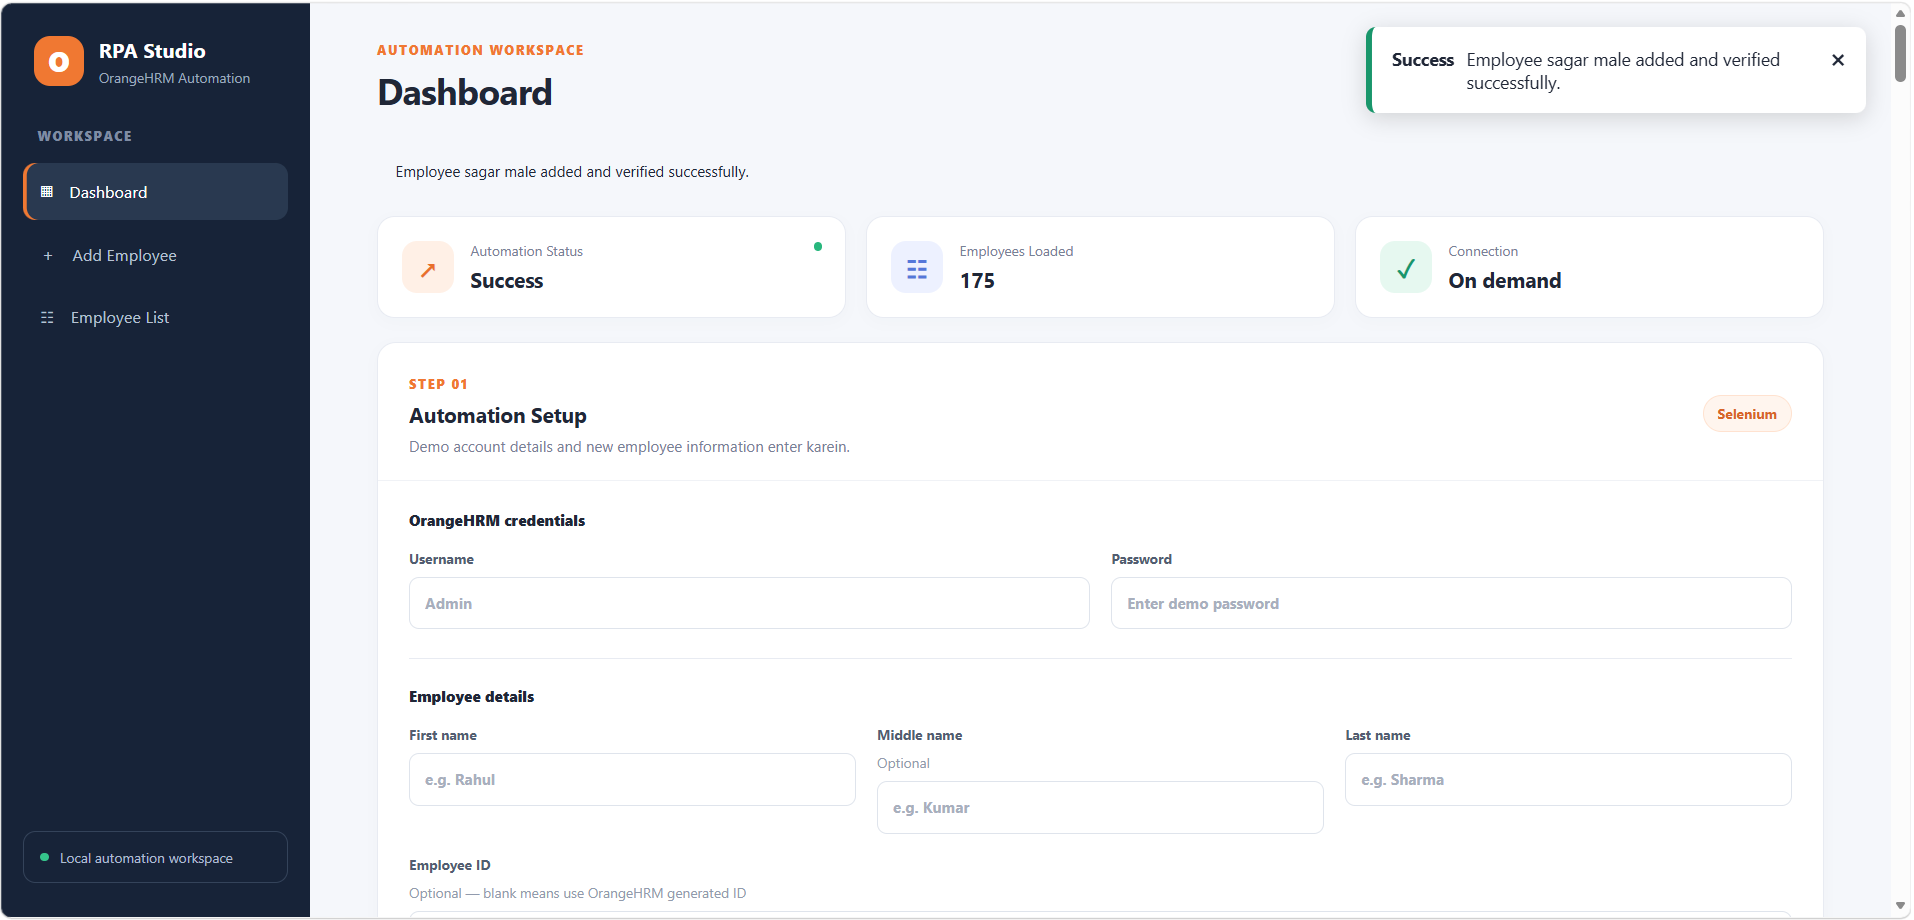
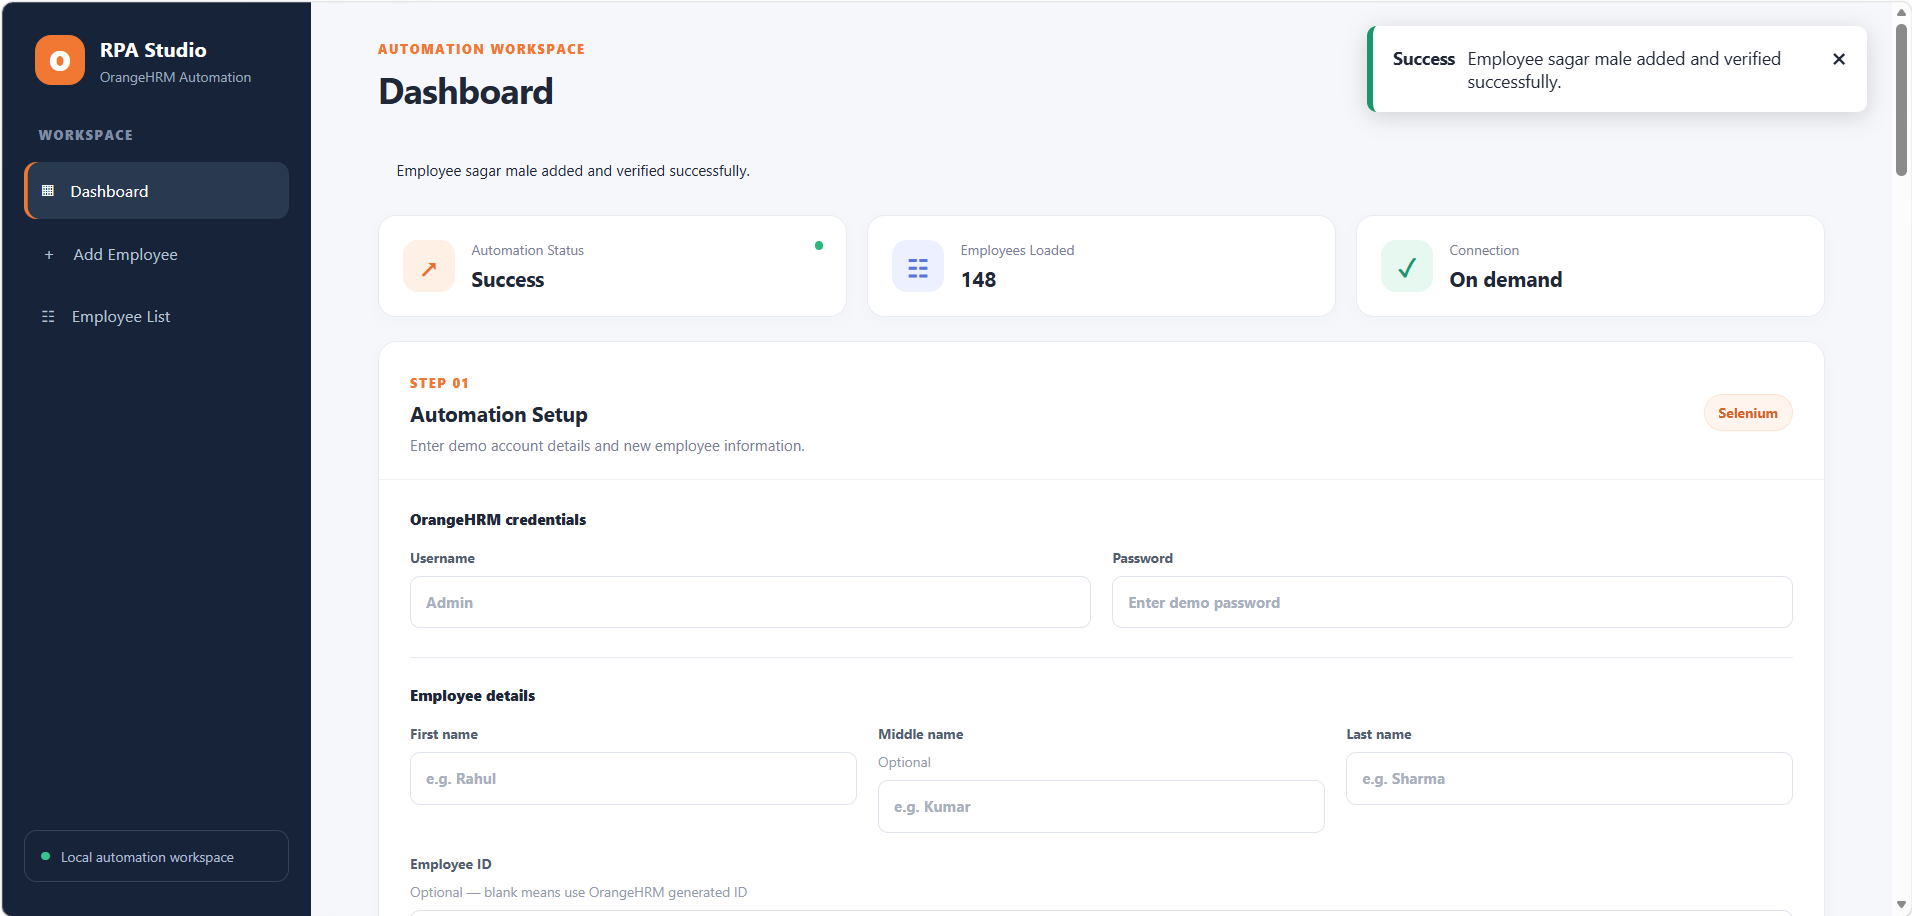
Update automation, screenshots, exports and gitignore

diff --git a/automation.py b/automation.py
@@ -13,6 +13,9 @@ load_dotenv()
 ORANGEHRM_BASE_URL = os.environ.get("ORANGEHRM_BASE_URL", "https://opensource-demo.orangehrmlive.com/")
 WAIT_SECONDS = 20
 
+class LoginFailedError(Exception):
+    pass
+
 os.makedirs("logs", exist_ok=True)
 logging.basicConfig(
     filename=os.path.join("logs", "automation.log"),
@@ -31,16 +34,64 @@ def wait_click(wait, by, selector):
     element.click()
     return element
 
+# def login(driver, wait, username, password):
+#     driver.get(ORANGEHRM_BASE_URL)
+#     user = wait.until(EC.visibility_of_element_located((By.NAME, "username")))
+#     user.clear()
+#     user.send_keys(username)
+#     pwd = wait.until(EC.visibility_of_element_located((By.NAME, "password")))
+#     pwd.clear()
+#     pwd.send_keys(password)
+#     wait_click(wait, By.CSS_SELECTOR, "button[type='submit']")
+#     wait.until(EC.presence_of_element_located((By.CSS_SELECTOR, "nav[aria-label='Sidepanel']")))
+#     logging.info("Login successful")
+
 def login(driver, wait, username, password):
     driver.get(ORANGEHRM_BASE_URL)
-    user = wait.until(EC.visibility_of_element_located((By.NAME, "username")))
+
+    user = wait.until(
+        EC.visibility_of_element_located((By.NAME, "username"))
+    )
     user.clear()
     user.send_keys(username)
-    pwd = wait.until(EC.visibility_of_element_located((By.NAME, "password")))
+
+    pwd = wait.until(
+        EC.visibility_of_element_located((By.NAME, "password"))
+    )
     pwd.clear()
     pwd.send_keys(password)
+
     wait_click(wait, By.CSS_SELECTOR, "button[type='submit']")
-    wait.until(EC.presence_of_element_located((By.CSS_SELECTOR, "nav[aria-label='Sidepanel']")))
+
+    def check_login_result(d):
+        alerts = d.find_elements(
+            By.CSS_SELECTOR, ".oxd-alert-content-text"
+        )
+
+        for alert in alerts:
+            try:
+                if alert.is_displayed() and alert.text.strip():
+                    return ("error", alert.text.strip())
+            except StaleElementReferenceException:
+                continue
+
+        dashboard = d.find_elements(
+            By.CSS_SELECTOR, "nav[aria-label='Sidepanel']"
+        )
+
+        if dashboard:
+            return ("success", "")
+
+        return False
+
+    result = wait.until(check_login_result)
+
+    if result[0] == "error":
+        logging.warning("Login failed: %s", result[1])
+        raise LoginFailedError(
+            "Login failed: Invalid username or password."
+        )
+
     logging.info("Login successful")
 
 def logout_if_possible(driver, wait):
@@ -431,6 +482,14 @@ def run_add_employee(username, password, first_name, middle_name, last_name, emp
                     "employees": []
                 }
 
+        except LoginFailedError as exc:
+            logging.warning("%s", exc)
+            return {
+                "success": False,
+                "message": str(exc),
+                "employees": []
+            }
+
         except TimeoutException:
             pass
 
@@ -652,6 +711,13 @@ def fetch_employees(username, password):
                 f"Fetched {len(employees)} employee records from all pages."
             ),
             "employees": employees
+        }
+    except LoginFailedError as exc:
+        logging.warning("%s", exc)
+        return {
+            "success": False,
+            "message": str(exc),
+            "employees": []
         }
     except TimeoutException:
         logging.exception("Timeout during employee fetch")
